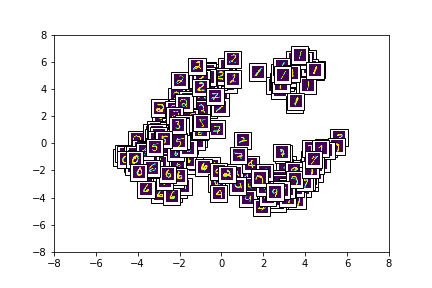
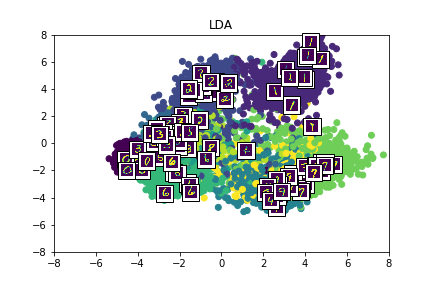
Added experiments with Isomap and tSNE dimensionality reduction methods.

Changed region(s): [[0.2407, 0.0938, 0.9028, 0.7812], [0.4815, 0.0625, 0.5417, 0.125]]

diff --git a/source/dim_reduction.py b/source/dim_reduction.py
@@ -2,7 +2,8 @@ import matplotlib.pyplot as plt
 from tensorflow import keras
 from keras.datasets import mnist
 from sklearn.decomposition import PCA
-from sklearn.discriminant_analysis import LinearDiscriminantAnalysis
+from sklearn.discriminant_analysis import LinearDiscriminantAnalysis as LDA
+from sklearn.manifold import TSNE, Isomap
 from matplotlib.offsetbox import OffsetImage, AnnotationBbox
 import random
 
@@ -22,21 +23,22 @@ enc = encoder.predict(x)
 pca = PCA(n_components=2)
 transformed_enc_pca = pca.fit_transform(enc)
 
-fig = plt.figure(figsize=(8,8))
-plt.scatter(transformed_enc_pca[:,0], transformed_enc_pca[:,1], c=y)
-plt.show()
-
 # LDA
-lda = LinearDiscriminantAnalysis(n_components=2)
+lda = LDA(n_components=2)
 transformed_enc_lda = lda.fit_transform(enc, y)
 
-fig = plt.figure(figsize=(8,8))
-plt.scatter(transformed_enc_lda[:,0], transformed_enc_lda[:,1], c=y)
-plt.show()
+# ISOMAP
+isomap = Isomap(n_components=2, n_neighbors=10)
+transformed_enc_isomap = isomap.fit_transform(enc, y)
+
+# tSNE
+tsne = TSNE(n_components=2, perplexity=10)
+transformed_enc_tsne = tsne.fit_transform(enc, y)
 
 # show the test images on the corresponding 2D encoding locations 
-def create_2D_embedding_plot(enc, ax_lim, fname, n_samples=300):
-    fig, ax = plt.subplots()
+def create_2D_embedding_plot(enc, ax_lim, file_name, plot_name, n_samples=100):
+    _, ax = plt.subplots()
+    plt.scatter(enc[:,0], enc[:,1], c=y)
     ax.set_xlim(-ax_lim, ax_lim)
     ax.set_ylim(-ax_lim, ax_lim)
     
@@ -46,9 +48,12 @@ def create_2D_embedding_plot(enc, ax_lim, fname, n_samples=300):
         imagebox = OffsetImage(img, zoom=0.4)
         ab = AnnotationBbox(imagebox, (enc[i,0], enc[i,1]), pad=0.3)
         ax.add_artist(ab)
-    plt.savefig(fname)
+    plt.title(plot_name)
+    plt.savefig(file_name)
     plt.show()
     
 odir = '../output/'
-create_2D_embedding_plot(transformed_enc_pca, ax_lim=2, fname=odir+'pca_encoding.png')
-create_2D_embedding_plot(transformed_enc_lda, ax_lim=8, fname=odir+'lda_encoding.png')
+create_2D_embedding_plot(transformed_enc_pca, ax_lim=2, file_name=odir+'pca_encoding.png', plot_name='PCA')
+create_2D_embedding_plot(transformed_enc_lda, ax_lim=8, file_name=odir+'lda_encoding.png', plot_name='LDA')
+create_2D_embedding_plot(transformed_enc_isomap, ax_lim=3, file_name=odir+'isomap_encoding.png', plot_name='ISOMAP')
+create_2D_embedding_plot(transformed_enc_tsne, ax_lim=100, file_name=odir+'tnse_encoding.png', plot_name='tSNE')
